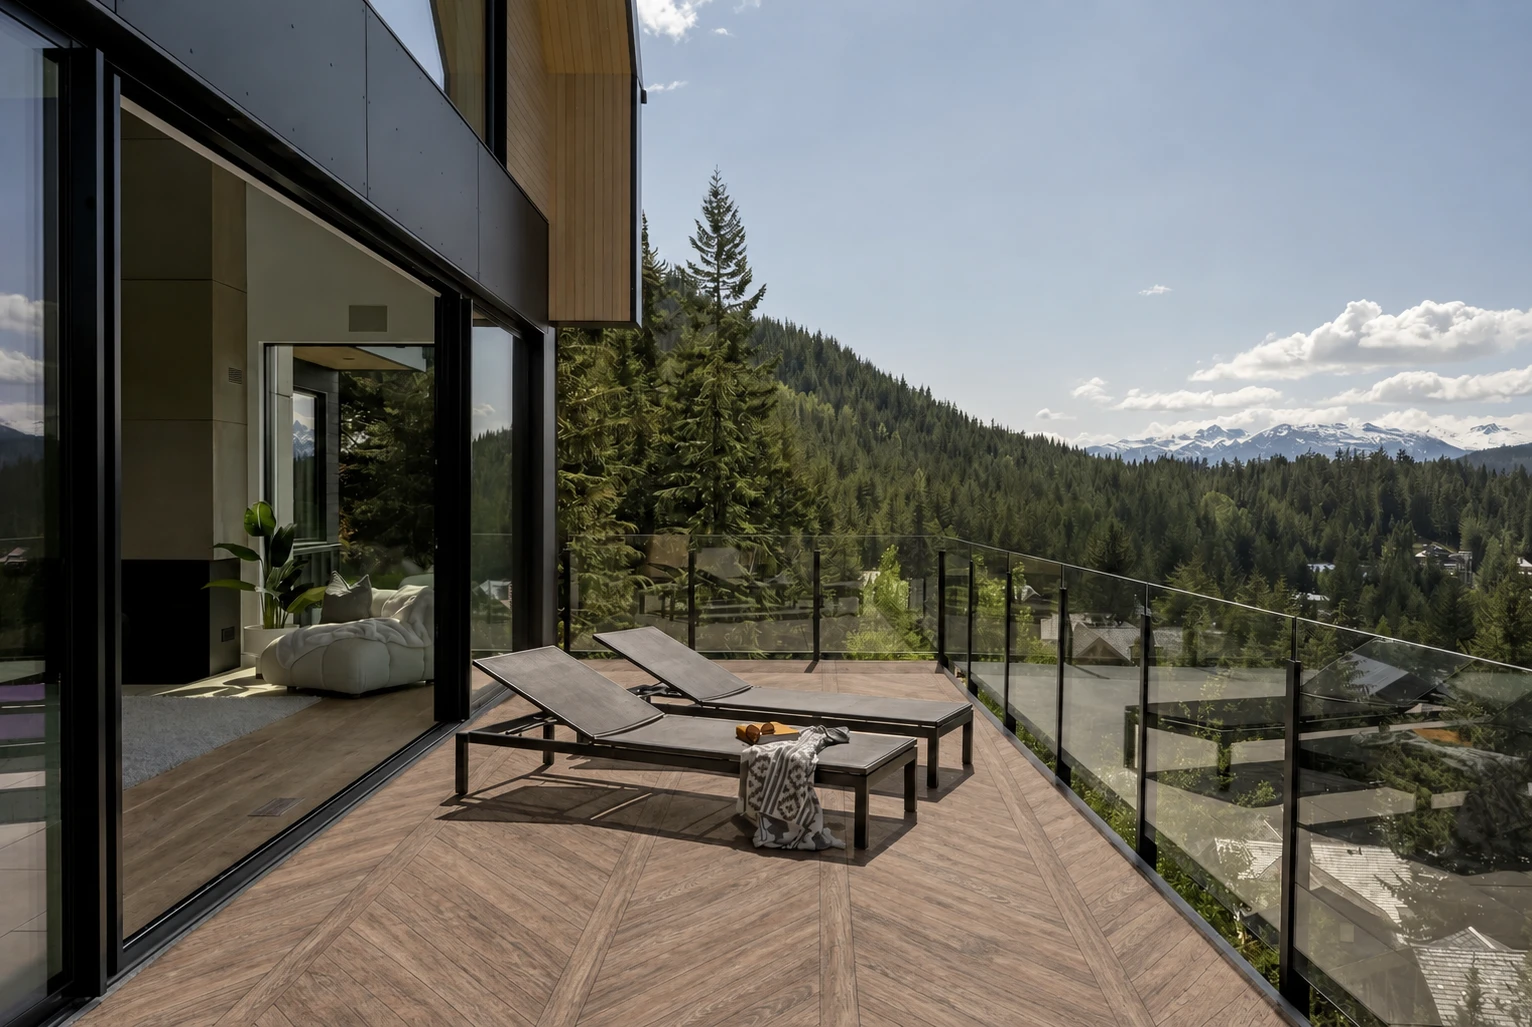
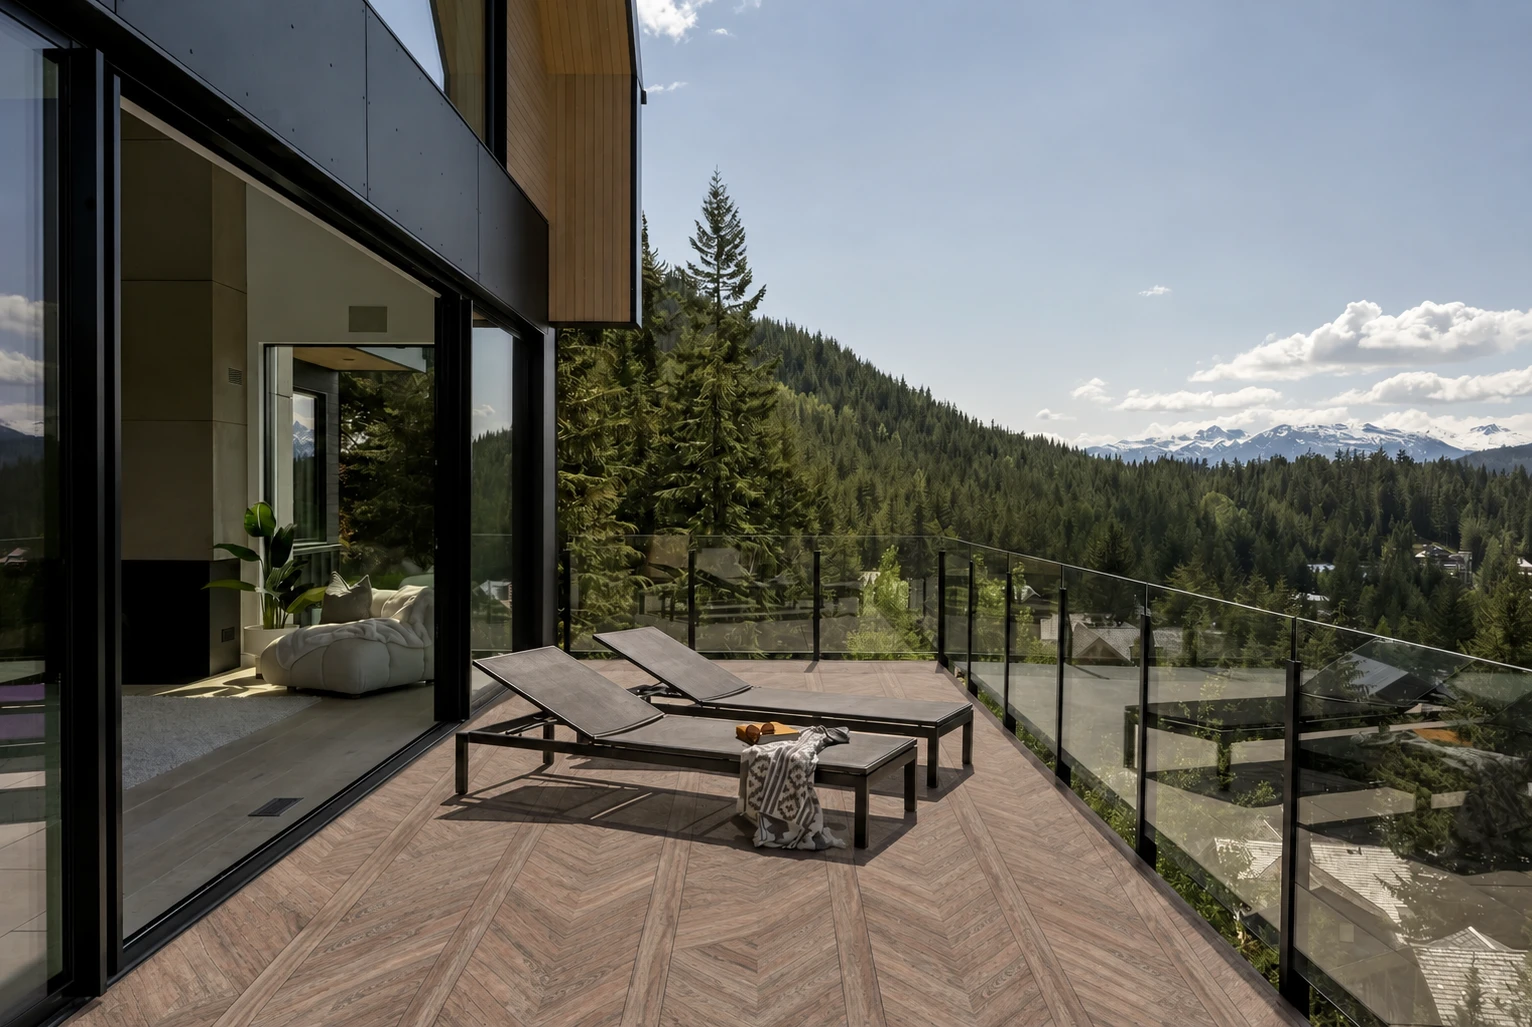
Anchor woodgrain scale with measured plank sizes (prompt v6)
The 6-foot reference alone was a coin flip: about half the woodgrain
renders still fitted one strip to the whole deck (single chevron spine,
foot-wide planks) while the other half were right. Each woodgrain now
carries measured numbers spliced into the prompt (plank width, spine
spacing, planks per 12 ft) plus real-world anchors the model can read
off any photo (door width, railing height, lounger length), and the
prompt says outright that Image 2 is a small sample, not the floor.

Re-rendered the five combos the client flagged plus the five untested
woodgrain combos; the two the client called good are kept as is.

Claude-Session: https://claude.ai/code/session_01SVhYAzLJg2j87BMan4pPy8

diff --git a/src/lib/visualizer/prompt.ts b/src/lib/visualizer/prompt.ts
@@ -28,5 +28,27 @@
  * strip, and the prompt says what it is: one roll, 6 feet along the long
  * edge, per the owners. The model can now size the pattern against the
  * deck's own railing and furniture.
+ *
+ * v6: "6 feet" alone was a coin flip: about half the woodgrain renders
+ * still fitted one strip to the whole deck (a single chevron spine across
+ * the deck, foot-wide planks). Two more anchors: every design carries its
+ * own measured numbers (plank width, spine spacing, how many planks a
+ * 12 ft deck shows), spliced in by buildGenerationPrompt(), and the prompt
+ * names real-world sizes the model can read off any photo (door width,
+ * railing height, lounger length).
  */
-export const GENERATION_PROMPT = `Image 1 is a photo of a deck. Image 2 is a section of vinyl decking membrane exactly one roll wide: the long edge of Image 2 is 6 feet (1.8 m) of real membrane, so every plank width, chevron, and speckle in it is shown at true scale. Vinyl decking is a continuous waterproof sheet that gets installed on top of the existing deck floor, completely covering it. Replace ONLY the deck floor surface in Image 1 with a single continuous sheet of the vinyl membrane from Image 2, as it would look after professional installation. The original deck boards, their gaps, seams, and grain must be completely hidden under the new membrane — nothing of the photo's own floor surface may show through anywhere. The new floor reads as one continuous printed sheet carrying the swatch's exact pattern: every plank line, chevron, woodgrain, or speckle on the new floor comes from the swatch's printed design and only from it, reproduced faithfully at its real-world scale. Size the pattern on the deck from that 6 foot reference: judge the deck's real dimensions from its railing, furniture, and doors, and lay the pattern so plank widths and chevron spacing are the same real size they are in Image 2. Continue the pattern across the whole floor the way a roll would: the same repeat at the same scale everywhere, with no enlarged, shrunken, or extra copies of any element. Everything else must stay exactly as it is: railing, house, furniture, plants, sky, shadows, and camera angle. Stairs, steps, and stair risers are NOT part of the deck floor: leave any stairs and their treads and risers exactly as they appear in the photo, unchanged. Keep the deck's existing geometry and perspective exactly — the new surface lies on the same floor plane, follows the same vanishing point and angle as the original floor, and ends at the same edges; do not flatten the surface, do not introduce a second vanishing point, and do not extend the deck beyond its current edges. Match the swatch's pattern to its real-world scale, even and consistent, receding naturally with distance. Preserve the original lighting: sunlight, shadows cast onto the deck, and reflections stay in the same places, now falling on the new membrane. Reproduce the swatch's color and printed pattern faithfully. Do not add, remove, or move any objects. Output a photorealistic image that looks like the same photo taken after the vinyl membrane was installed.`;
+const SCALE_ANCHORS =
+  "For scale, use what is in the photo: an exterior door is about 36 inches (0.9 m) wide, a railing is 36 to 42 inches (1 m) tall, a lounge chair is about 6 feet (1.8 m) long. Image 2 is a small sample, not the whole floor: a typical deck is two to four roll widths across and shows the pattern repeated many times.";
+
+/** The tuned prompt with the design's own measured sizes spliced in */
+export function buildGenerationPrompt(scaleHint?: string): string {
+  return GENERATION_PROMPT.replace(
+    "{SCALE}",
+    [scaleHint, SCALE_ANCHORS].filter(Boolean).join(" "),
+  );
+}
+
+/** Template. Callers should use buildGenerationPrompt(); the bare
+ *  template still works as a fallback because {SCALE} sits inside a
+ *  sentence that reads fine without it. */
+export const GENERATION_PROMPT = `Image 1 is a photo of a deck. Image 2 is a section of vinyl decking membrane exactly one roll wide: the long edge of Image 2 is 6 feet (1.8 m) of real membrane, so every plank width, chevron, and speckle in it is shown at true scale. Vinyl decking is a continuous waterproof sheet that gets installed on top of the existing deck floor, completely covering it. Replace ONLY the deck floor surface in Image 1 with a single continuous sheet of the vinyl membrane from Image 2, as it would look after professional installation. The original deck boards, their gaps, seams, and grain must be completely hidden under the new membrane — nothing of the photo's own floor surface may show through anywhere. The new floor reads as one continuous printed sheet carrying the swatch's exact pattern: every plank line, chevron, woodgrain, or speckle on the new floor comes from the swatch's printed design and only from it, reproduced faithfully at its real-world scale. Size the pattern on the deck from that 6 foot reference: judge the deck's real dimensions from its railing, furniture, and doors, and lay the pattern so plank widths and chevron spacing are the same real size they are in Image 2. {SCALE} Continue the pattern across the whole floor the way a roll would: the same repeat at the same scale everywhere, with no enlarged, shrunken, or extra copies of any element. Everything else must stay exactly as it is: railing, house, furniture, plants, sky, shadows, and camera angle. Stairs, steps, and stair risers are NOT part of the deck floor: leave any stairs and their treads and risers exactly as they appear in the photo, unchanged. Keep the deck's existing geometry and perspective exactly — the new surface lies on the same floor plane, follows the same vanishing point and angle as the original floor, and ends at the same edges; do not flatten the surface, do not introduce a second vanishing point, and do not extend the deck beyond its current edges. Match the swatch's pattern to its real-world scale, even and consistent, receding naturally with distance. Preserve the original lighting: sunlight, shadows cast onto the deck, and reflections stay in the same places, now falling on the new membrane. Reproduce the swatch's color and printed pattern faithfully. Do not add, remove, or move any objects. Output a photorealistic image that looks like the same photo taken after the vinyl membrane was installed.`;

diff --git a/src/lib/designs.ts b/src/lib/designs.ts
@@ -12,6 +12,10 @@ export type Design = {
    *  pattern's true repeat. The square `swatch` is a crop of this and is
    *  only for the UI. */
   reference?: string;
+  /** Measured real-world sizes of the pattern, spliced into the generation
+   *  prompt. Only patterns with a visible unit (planks, chevrons) need one;
+   *  speckles have nothing to size. */
+  scaleHint?: string;
   /** Deck scene photo — swap in when product shots are ready */
   scene?: string;
   /** Real membrane pattern tile, where one has been shot */
@@ -187,6 +191,7 @@ export const DESIGNS: Design[] = [
     blurb: "Weathered timber look, greyed off by sun and salt.",
     swatch: SWATCH("driftwood"),
     reference: REFERENCE("driftwood"),
+    scaleHint: "In this design the planks are about 5 to 6 inches (14 cm) wide, so a 12 foot wide deck shows roughly 26 planks side by side.",
     scene: SCENE("1716904519810-349244919824"),
     tile: SWATCH("driftwood"),
     tileTone: "#a29a8e",
@@ -203,6 +208,7 @@ export const DESIGNS: Design[] = [
     blurb: "Deep, rich hardwood tones in a classic plank layout.",
     swatch: SWATCH("ipe"),
     reference: REFERENCE("ipe"),
+    scaleHint: "In this design the planks are about 5.5 inches (14 cm) wide, so a 12 foot wide deck shows roughly 26 planks side by side.",
     tile: SWATCH("ipe"),
     tileTone: "#733b28",
     tone: "#733b28",
@@ -214,6 +220,7 @@ export const DESIGNS: Design[] = [
     blurb: "Chevron planks in a cool, weathered grey-brown.",
     swatch: SWATCH("boardwalk"),
     reference: REFERENCE("boardwalk"),
+    scaleHint: "In this design the chevron boards are about 3.5 inches (9 cm) wide and a straight spine board runs every 18 inches (45 cm), so a 12 foot wide deck shows about 8 spines with chevrons between them.",
     tile: SWATCH("boardwalk"),
     tileTone: "#7d7063",
     tone: "#7d7063",
@@ -225,6 +232,7 @@ export const DESIGNS: Design[] = [
     blurb: "Warm chevron woodgrain with a hand-laid character.",
     swatch: SWATCH("hansberry"),
     reference: REFERENCE("hansberry"),
+    scaleHint: "In this design the chevron boards are about 3.5 inches (9 cm) wide and a straight spine board runs every 18 inches (45 cm), so a 12 foot wide deck shows about 8 spines with chevrons between them.",
     tile: SWATCH("hansberry"),
     tileTone: "#8d7361",
     tone: "#8d7361",
@@ -236,6 +244,7 @@ export const DESIGNS: Design[] = [
     blurb: "Straight-laid walnut planks in a soft, smoky brown.",
     swatch: SWATCH("walnut"),
     reference: REFERENCE("walnut"),
+    scaleHint: "In this design the planks are about 5.5 inches (14 cm) wide, so a 12 foot wide deck shows roughly 26 planks side by side.",
     tile: SWATCH("walnut"),
     tileTone: "#785f43",
     tone: "#785f43",

diff --git a/src/app/api/visualizer/generate/route.ts b/src/app/api/visualizer/generate/route.ts
@@ -32,6 +32,7 @@ import {
   type GenerateStreamMessage,
 } from "@/lib/visualizer/stream";
 import { getVinyl } from "@/config/vinyls";
+import { buildGenerationPrompt } from "@/lib/visualizer/prompt";
 import {
   generateDeckRender,
   GenerationError,
@@ -163,6 +164,7 @@ export async function POST(request: NextRequest) {
         break;
       }
       const timeoutMs = Math.min(GENERATION_BUDGET.attemptMs, remainingMs);
+      const prompt = buildGenerationPrompt(vinyl.scaleHint);
       try {
         const result = await generateDeckRender({
           deckPhoto: deck.data,
@@ -173,6 +175,7 @@ export async function POST(request: NextRequest) {
             PARTIAL_PREVIEWS.count > 0
               ? {
                   timeoutMs,
+                  prompt,
                   partialImages: PARTIAL_PREVIEWS.count,
                   // Intermediate frames still show the old boards; only a
                   // thumbnail leaves the server (see PARTIAL_PREVIEWS)
@@ -190,7 +193,7 @@ export async function POST(request: NextRequest) {
                     });
                   },
                 }
-              : { timeoutMs },
+              : { timeoutMs, prompt },
         });
 
         const webp = await sharp(result.image)

diff --git a/scripts/generate-stock-combos.ts b/scripts/generate-stock-combos.ts
@@ -21,6 +21,7 @@ import { existsSync } from "node:fs";
 import path from "node:path";
 import sharp from "sharp";
 import { generateDeckRender } from "../src/lib/visualizer/generate";
+import { buildGenerationPrompt } from "../src/lib/visualizer/prompt";
 import { STOCK_LAYOUTS, LIMITS } from "../src/config/visualizer";
 import { VINYLS } from "../src/config/vinyls";
 import { logGeneration } from "../src/lib/visualizer/usage";
@@ -117,6 +118,7 @@ async function generateAll(layoutFilter: string, skuFilter: string, force: boole
           deckPhotoMime: "image/webp",
           vinylSwatch: swatch,
           vinylSwatchMime: "image/jpeg",
+          options: { prompt: buildGenerationPrompt(vinyl.scaleHint) },
         });
         await writeFile(outFile, await sharp(result.image).webp({ quality: 90 }).toBuffer());
         await logGeneration({

diff --git a/src/config/vinyls.ts b/src/config/vinyls.ts
@@ -24,6 +24,9 @@ export type Vinyl = {
   /** What the generation pipeline sends to the image model: the full
    *  6-foot roll-width strip where one exists, else the swatch */
   referencePath: string;
+  /** Design-specific scale sentence for the prompt, where the pattern has
+   *  a unit worth sizing (planks, chevrons) */
+  scaleHint?: string;
   regions: Region[];
   /** Average colour of the swatch — placeholder wash while it loads */
   tone: string;
@@ -41,6 +44,7 @@ function toVinyl(design: Design): Vinyl {
     name: design.name,
     swatchPath: design.swatch,
     referencePath: design.reference ?? design.swatch,
+    scaleHint: design.scaleHint,
     regions: ["CA", "US"],
     tone: design.tone,
     blurb: design.blurb,
